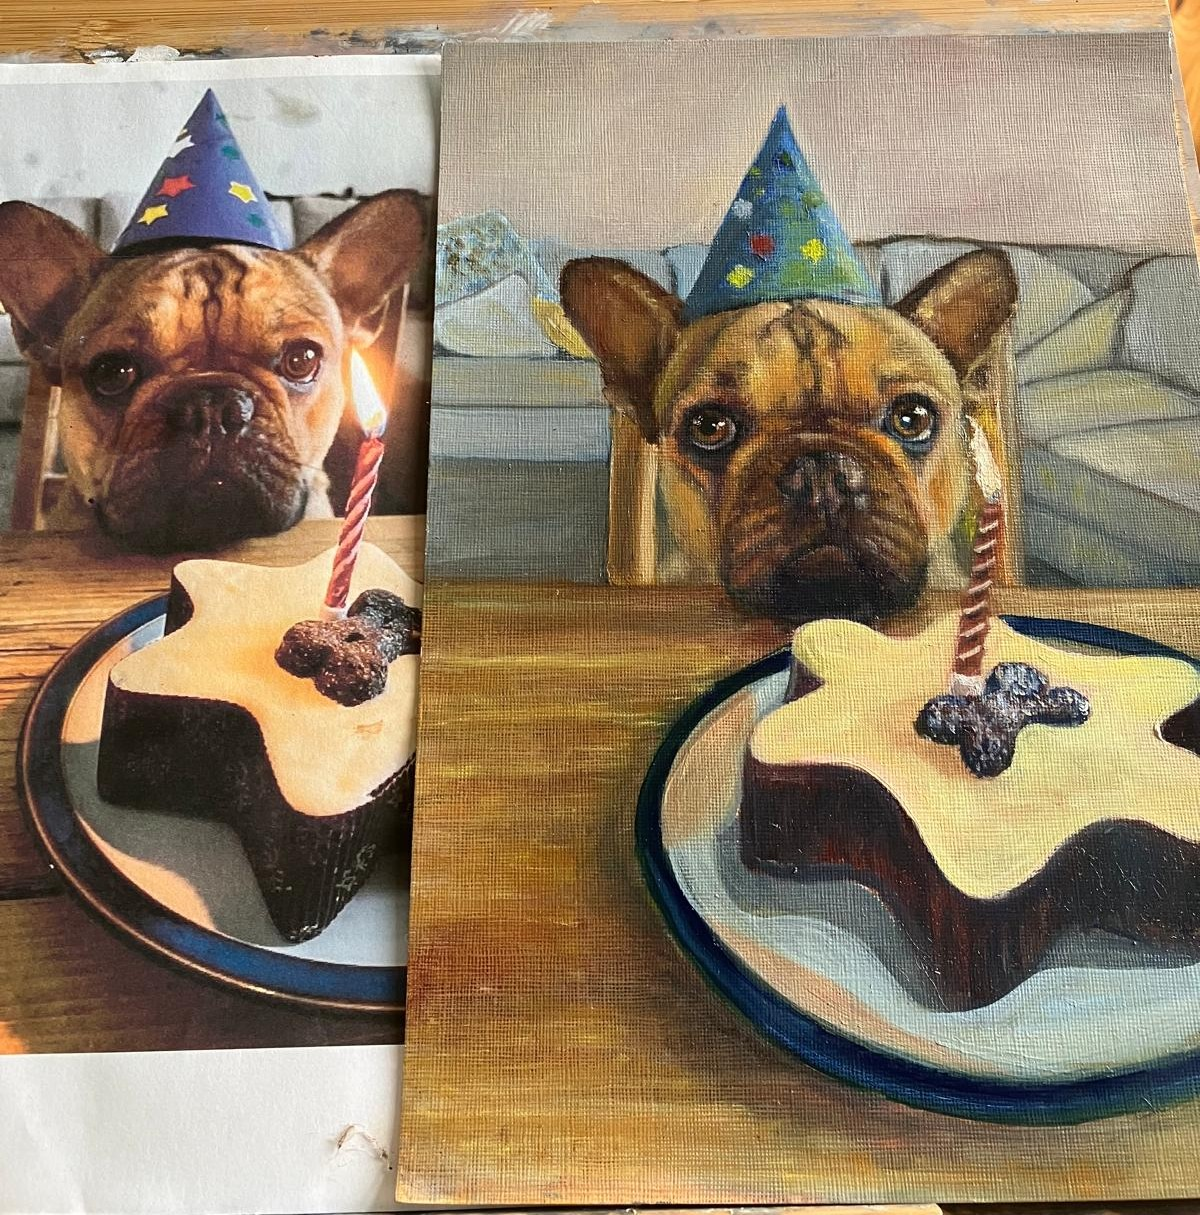
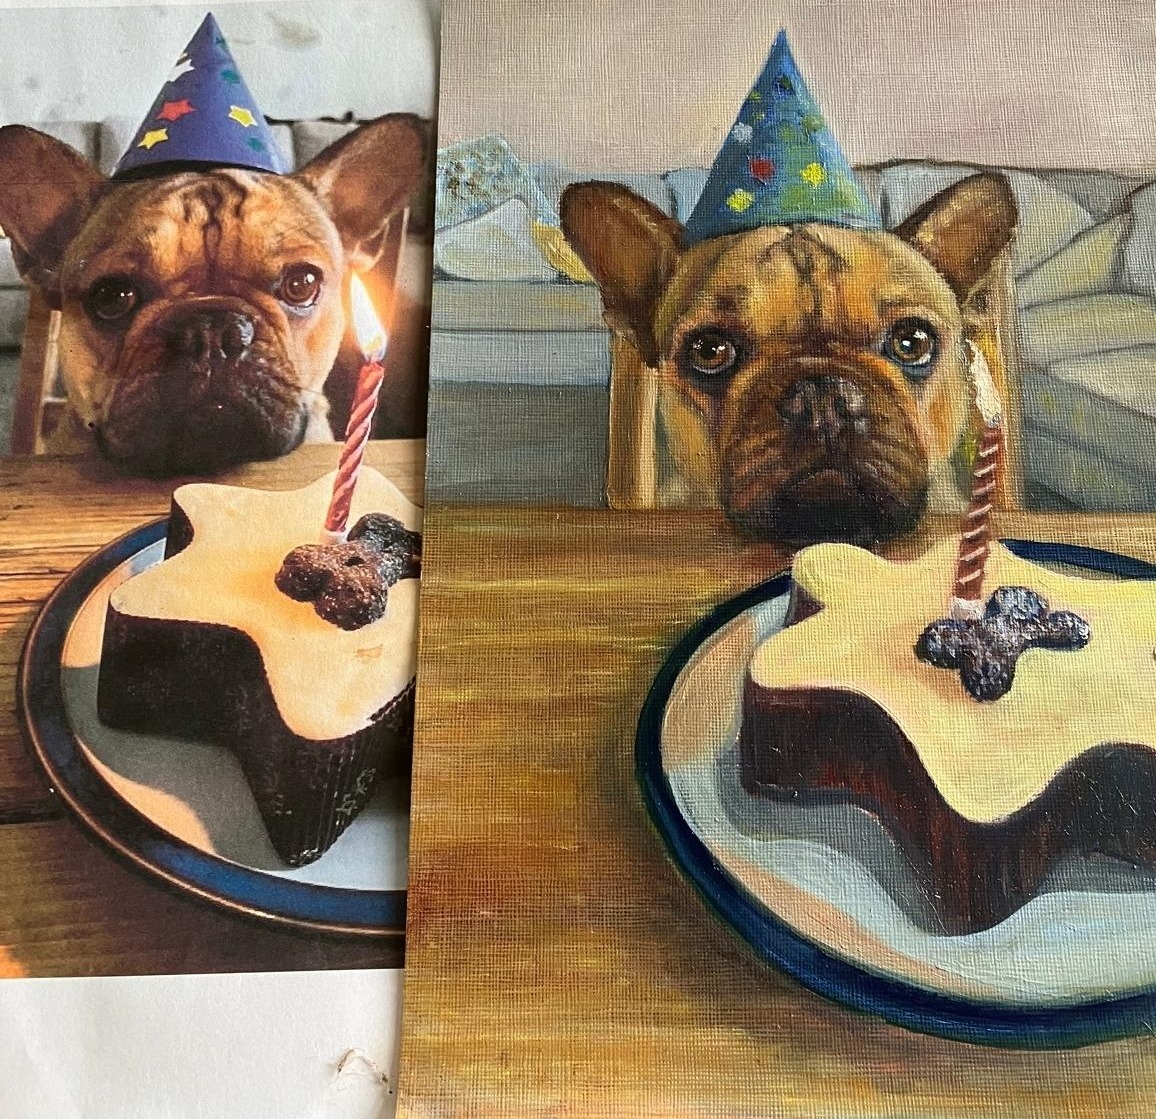
Tidy home strip: crop easel from before/after, align heights
The before/after photo is cropped to just the two pictures. The middle
image is sized to match its neighbours' height so all three line up, and
its caption no longer shifts the row's centre line.

Claude-Session: https://claude.ai/code/session_01ESwZpxXztK66LKJJU6KYpf

diff --git a/src/app/page.tsx b/src/app/page.tsx
@@ -102,11 +102,11 @@ export default function HomePage() {
             Recent portraits
           </h2>
           <ul
-            className="grid items-center gap-6 sm:[grid-template-columns:var(--cols)]"
+            className="grid items-center gap-6 pb-8 sm:[grid-template-columns:var(--cols)]"
             style={
               {
                 "--cols": featured
-                  .map((item) => (item.featureAsPhoto && item.photo ? "1.5fr" : "1fr"))
+                  .map((item) => (item.featureAsPhoto && item.photo ? "1.29fr" : "1fr"))
                   .join(" "),
               } as React.CSSProperties
             }
@@ -115,7 +115,7 @@ export default function HomePage() {
               const both = item.featureAsPhoto && item.photo;
               return (
                 <li key={item.id}>
-                  <figure>
+                  <figure className="relative">
                     <ArtImage
                       src={both ? item.photo : item.painting}
                       alt={both ? item.photoAlt : item.paintingAlt}
@@ -125,7 +125,7 @@ export default function HomePage() {
                       sizes={both ? "(min-width: 640px) 45vw, 100vw" : "(min-width: 640px) 30vw, 100vw"}
                     />
                     {both ? (
-                      <figcaption className="mt-3 text-center text-sm text-ink-soft">
+                      <figcaption className="absolute inset-x-0 top-full mt-3 text-center text-sm text-ink-soft">
                         From photo to painting
                       </figcaption>
                     ) : null}
